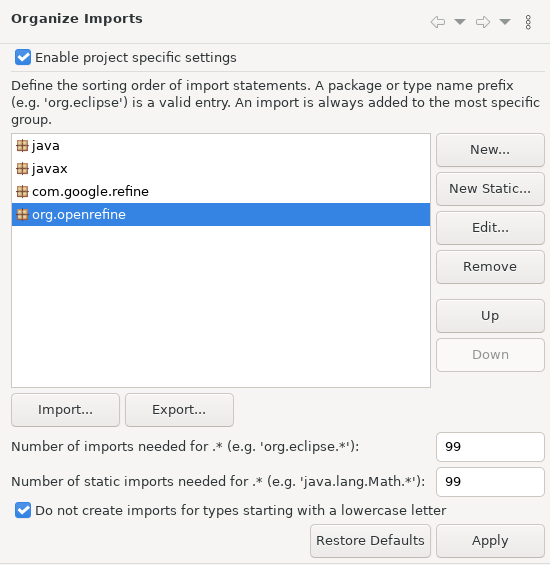
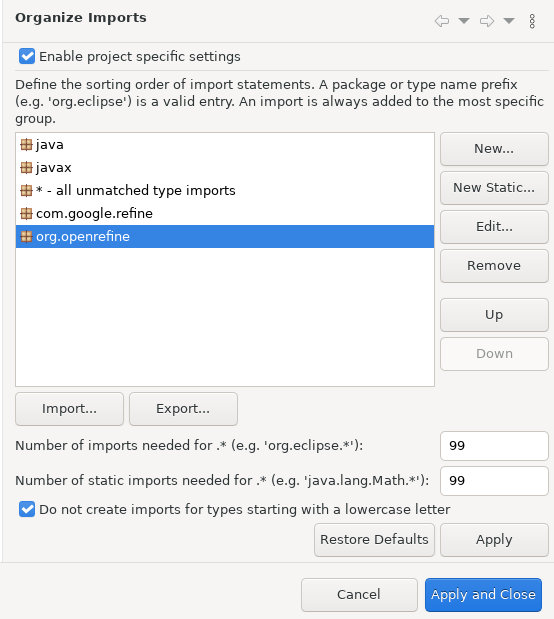
Update import order

diff --git a/docs/technical-reference/build-test-run.md b/docs/technical-reference/build-test-run.md
@@ -245,6 +245,7 @@ You can apply the supplied Eclipse code style (in `IDEs/eclipse/Refine.style.xml
 You can also configure Eclipse to sort `import` statements according to our conventions, by going to the `Window -> Preferences -> Java Code Style` menu and enabling project-specific import order:
 * `java`
 * `javax`
+* `*`
 * `com.google.refine`
 * `org.openrefine`
 
@@ -312,6 +313,7 @@ The style file is located at `IDEs/eclipse/Refine.style.xml` in the repository. 
 You can also configure the import order for the OpenRefine to follow the following order:
 * `java`
 * `javax`
+* `*`
 * `com.google.refine`
 * `org.openrefine`
 
